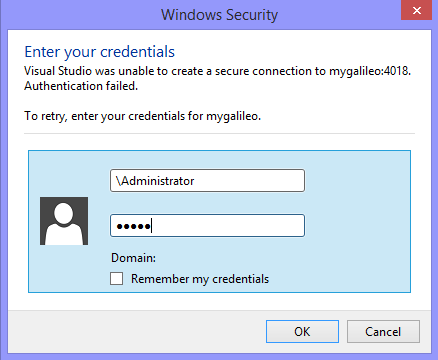
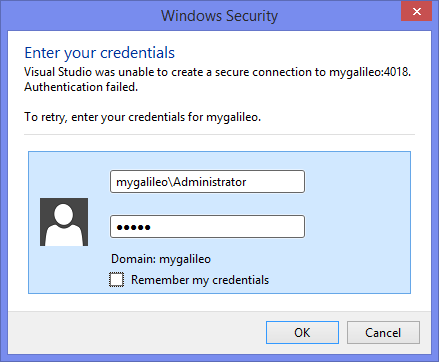
Update documentation to reflect using board's name to qualify the user name  - resolves several issues surrounding attaching to a board by name  - Task 302424: [Bug from Hackathon] Investigate difficulties connecting to Galileo from Visual Studio Express

diff --git a/HelloBlinky.md b/HelloBlinky.md
@@ -47,13 +47,11 @@ void loop()
   <h3>Build and deploy</h3>
   <p>Press F5 to build and deploy your project.</p>
   <p>You may be prompted for credentials. Enter:<br/>
-  Username: <kbd>\Administrator</kbd><br/>
+  Username: <kbd>mygalileo\Administrator</kbd><br/>
   Password: <kbd>admin</kbd><br/></p>
   <p><img src="images/VSDeployCred.png" /></p>
-  <div class="panel panel-info">
-    <div class="panel-heading">NOTE:</div>
-    <div class="panel-body">The Backslash in the username makes it relative to the Galileo instead of your host computer or domain.</div>
-  </div>
+
+  <h3>Result</h3>
   <p>You should see the light blinking. If it isn't blinking, try reversing the LED leads.</p>
   <hr/>
 
